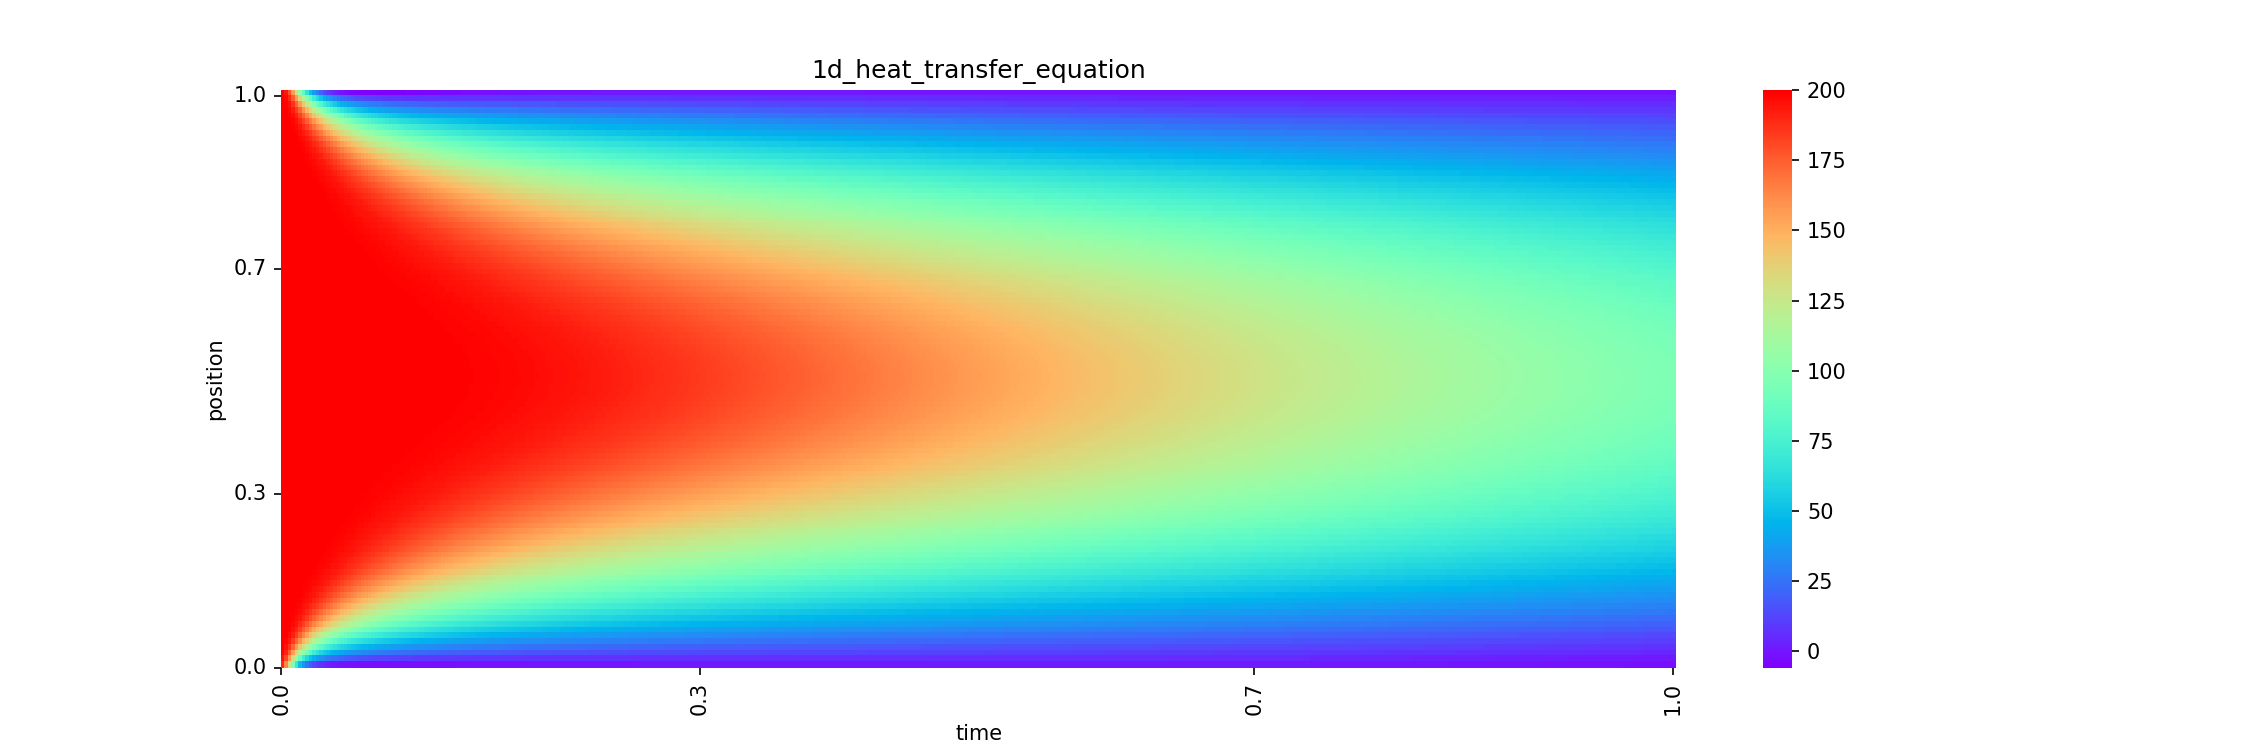
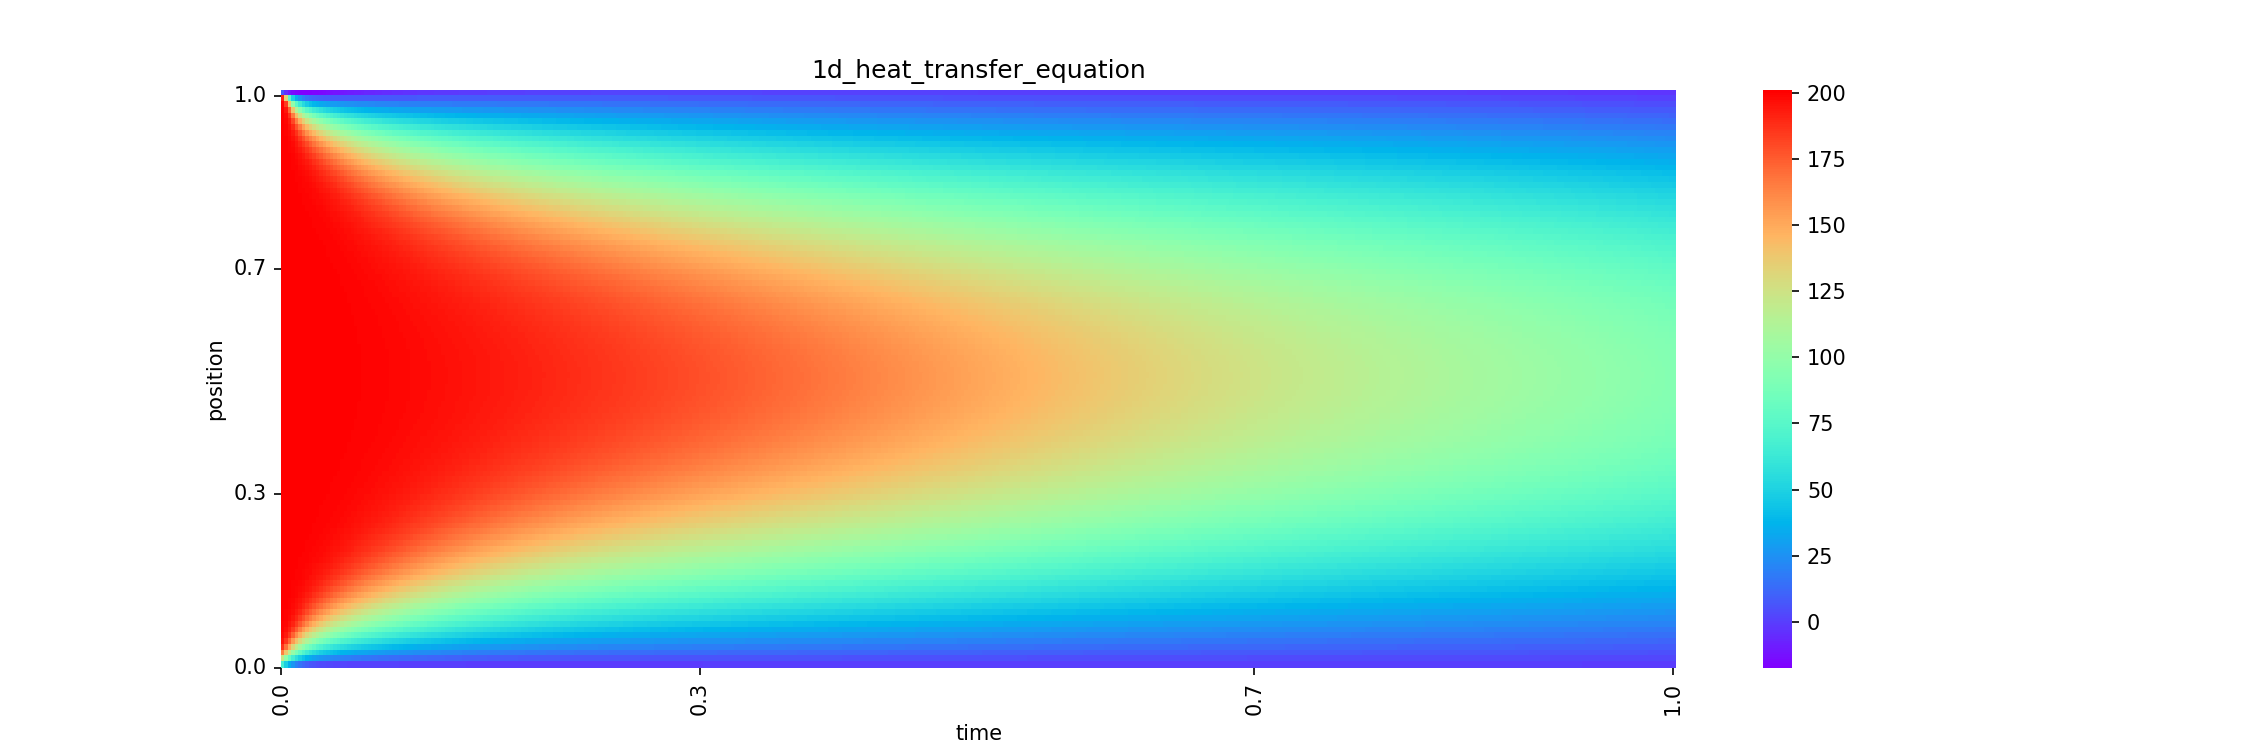
more experiments of PINN in solving 1d heat transfer equation

diff --git a/PINN/1d_heat_transfer_pinn.py b/PINN/1d_heat_transfer_pinn.py
@@ -5,6 +5,9 @@
 # @Time       : 2021/12/6 21:48
 import os
 import sys
+
+import matplotlib.pyplot as plt
+
 sys.path.append(os.curdir)
 
 import time
@@ -142,12 +145,13 @@ class OneDHeatTransferPINN(object):
         self.pinn_model.train()
 
         for i in range(4):
+
             logger.info("train with L-BFGS")
             self.adam_ = False
             self.optimizer.step(self.loss_func)
             logger.info("L-BFGS optimize done ...")
 
-            adam_optimier = optim.Adam(self.pinn_model.parameters(), lr=2e-4/np.power(5, i))
+            adam_optimier = optim.Adam(self.pinn_model.parameters(), lr=2e-3/np.power(5, i))
             logger.info("train with Adam optimizer")
             self.adam_ = True
             for epoch in range(1, self.max_adam_epochs + 1):
@@ -155,6 +159,11 @@ class OneDHeatTransferPINN(object):
                 self.loss_func()
                 adam_optimier.step()
             logger.info("Adam optimize done ...")
+
+            logger.info("train with L-BFGS")
+            self.adam_ = False
+            self.optimizer.step(self.loss_func)
+            logger.info("L-BFGS optimize done ...")
 
         over_train_time = time.time()
         logger.info("train over ...")
@@ -189,7 +198,7 @@ class OneDHeatTransferPINN(object):
         loss_u = torch.mean((u_pred - self.u_exact) ** 2)
         loss_f = torch.mean(pde_output ** 2)
 
-        total_loss = loss_f + loss_u
+        total_loss = loss_f + loss_u * 100
 
         total_loss.backward()
 
@@ -204,7 +213,7 @@ class OneDHeatTransferPINN(object):
                         "pde function loss:{:.5e}".format(loss_u.item(), loss_f.item()))
         return total_loss
 
-    def pred_and_valuation(self):
+    def pred(self):
         logger.info("begin pred ...")
         with torch.no_grad():
             self.pinn_model.eval()
@@ -237,13 +246,58 @@ class OneDHeatTransferPINN(object):
             logger.info("pred done ...")
             logger.info("using {:.5f}s ...".format(over_pred_time - begin_pred_time))
 
-        # valuation
-        l1_norm = np.linalg.norm(pred_output_matrix.reshape(-1) - true_output_matrix.reshape(-1), 1)
-        l2_norm = np.linalg.norm(pred_output_matrix.reshape(-1) - true_output_matrix.reshape(-1))
+        # self.data_creator.figure_output_path = os.path.join(self.conf["figure_output_root"],
+        #                                                     self.conf["pinn_figure_output_name"])
+        # self.data_creator.gif_output_path = os.path.join(self.conf["figure_output_root"],
+        #                                                  self.conf["pinn_gif_output_name"])
+        # self.data_creator.result_matrix = pred_output_matrix.copy()
+        # self.data_creator.plot_func(save_figure=True)
+        #
+        # # different figure
+        # different_figure = np.abs(pred_output_matrix - true_output_matrix)
+        #
+        # self.data_creator.figure_output_path = os.path.join(self.conf["figure_output_root"],
+        #                                                     self.conf["different_figure_output_name"])
+        # self.data_creator.gif_output_path = os.path.join(self.conf["figure_output_root"],
+        #                                                  self.conf["different_gif_output_name"])
+        # self.data_creator.result_matrix = different_figure.copy()
+        # self.data_creator.plot_func(save_figure=True)
 
-        max_error = np.max(np.abs(pred_output_matrix - true_output_matrix))
-        min_error = np.min(np.abs(pred_output_matrix - true_output_matrix))
-        average_error = np.average(np.abs(pred_output_matrix - true_output_matrix))
+        # 直接对比
+        # 取时间为 0， 0.25, 0.5, 0.75四个时间点
+        # time_points = [0, int(0.25/self.conf["delta_time"]),
+        #                int(0.5/self.conf["delta_time"]),
+        #                int(0.75/self.conf["delta_time"])]
+        # plt.rcParams["font.sans-serif"] = ["SimHei"]
+        # plt.figure(figsize=(10, 10))
+        # x_value_list = np.linspace(self.conf["cal_x_range"][0],
+        #                            self.conf["cal_x_range"][1], true_output_matrix.shape[0])
+        # for _time in time_points:
+        #     true_vector = true_output_matrix[:, _time]
+        #     pred_vector = pred_output_matrix[:, _time]
+        #     plt.clf()
+        #     plt.cla()
+        #     plt.title("t={}".format(np.round(_time * self.conf["delta_time"], 2)))
+        #     plt.xlabel("x")
+        #     plt.ylabel("u(t, x)")
+        #     plt.ylim(-1, 200)
+        #     plt.plot(x_value_list, pred_vector, label="数值计算结果", linewidth=2)
+        #     plt.plot(x_value_list, true_vector, label="PINN预测结果", linewidth=2)
+        #     plt.legend()
+        #     plt.savefig("./output/plots/1d_heat_transfer_pinn_time_{}.png".format(np.round(_time *
+        #                                                                                    self.conf["delta_time"], 2)))
+        return pred_output_matrix
+
+    def valuation_(self, pred_matrix):
+
+        true_output_matrix = self.data_creator.result_matrix
+        # valuation
+        l1_norm = np.linalg.norm(pred_matrix.reshape(-1) - true_output_matrix.reshape(-1), 1)
+        l2_norm = np.linalg.norm(pred_matrix.reshape(-1) - true_output_matrix.reshape(-1))
+
+        max_error = np.max(np.abs(pred_matrix - true_output_matrix))
+        min_error = np.min(np.abs(pred_matrix - true_output_matrix))
+        average_error = np.average(np.abs(pred_matrix - true_output_matrix))
 
         logger.info("l1 norm {:.7f}".format(l1_norm))
         logger.info("l2 norm {:.7f}".format(l2_norm))
@@ -251,21 +305,62 @@ class OneDHeatTransferPINN(object):
         logger.info("min error {:.7f}".format(min_error))
         logger.info("average error {:.7f}".format(average_error))
 
-        self.data_creator.figure_output_path = os.path.join(self.conf["figure_output_root"],
-                                                            self.conf["pinn_figure_output_name"])
-        self.data_creator.gif_output_path = os.path.join(self.conf["figure_output_root"],
-                                                         self.conf["pinn_gif_output_name"])
-        self.data_creator.result_matrix = pred_output_matrix.copy()
-        self.data_creator.plot_func(save_figure=True)
+        return average_error
 
 
 if __name__ == "__main__":
     _conf = yaml.load(open("./conf/pinn_1d_heat_transfer_equation.yaml"), Loader=yaml.FullLoader)
     weight_path = r"./output/weights/1d_heat_transfer_equation_pinn.pth"
-    main_ = OneDHeatTransferPINN(_conf, weight_path)
-    main_.train()
-    if _conf["PINN_plot"] == "True":
-        main_.pred_and_valuation()
+
+    layer_num_list = [2, 4, 6, 8]
+    neural_num_list = [10, 20, 40]
+
+    boundary_initial_num = 200
+    common_num = 16000
+    boundary_num = int(boundary_initial_num * 0.7)
+    initial_num = int(boundary_initial_num * 0.3)
+
+    for layer_conf in layer_num_list:
+        for neural_num_conf in neural_num_list:
+            logger.info("\n \n \n")
+            logger.info("layer_conf {}".format(layer_conf))
+            logger.info("neural_num_conf {}".format(neural_num_conf))
+
+            _conf["model_layers"] = np.repeat(neural_num_conf, layer_conf)
+            logger.info("model_layers {}".format(_conf["model_layers"]))
+
+            main_ = OneDHeatTransferPINN(_conf, weight_path)
+            main_.train()
+            pred_matrix_ = main_.pred()
 
 
-
+    # common_num_list = [4000, 8000, 12000, 16000, 20000]
+    # boundary_initial_num_list = [100, 140, 180, 220]
+    #
+    # error_matrix = np.zeros((len(common_num_list), len(boundary_initial_num_list)))
+    # for i, boundary_initial_num in enumerate(boundary_initial_num_list):
+    #     for j, common_num in enumerate(common_num_list):
+    #
+    #         train_ = False
+    #         if (boundary_initial_num == 180 and common_num == 20000) or (boundary_initial_num == 140 and common_num == 12000):
+    #             train_ = True
+    #         if train_:
+    #             boundary_num = int(boundary_initial_num * 0.7)
+    #             initial_num = int(boundary_initial_num * 0.3)
+    #
+    #             logger.info("\n \n \n")
+    #             logger.info("common_num {}".format(common_num))
+    #             logger.info("initial_num {}".format(initial_num))
+    #             logger.info("boundary_num {}".format(boundary_num))
+    #
+    #             _conf["boundary_num"] = boundary_num
+    #             _conf["initial_num"] = initial_num
+    #             _conf["common_num"] = common_num
+    #
+    #             main_ = OneDHeatTransferPINN(_conf, weight_path)
+    #             main_.train()
+    #             # if _conf["PINN_plot"] == "True":
+    #             pred_matrix_ = main_.pred()
+    #             error_matrix[j][i] = main_.valuation_(pred_matrix_)
+    #
+    # logger.info("error matrix".format(error_matrix))

diff --git a/data/DataCreator.py b/data/DataCreator.py
@@ -132,6 +132,10 @@ class OneDHeatTransferEquationDataCreator(BasicDataCreator):
 
         # result matrix
         self.result_matrix = None
+        # param matrix
+        self.parm_matrix = None
+        # k matrix
+        self.k_vector_matrix = None
 
         # data init
         self._data_init()
@@ -147,9 +151,45 @@ class OneDHeatTransferEquationDataCreator(BasicDataCreator):
 
         # init
         self.result_matrix[:, 0] = 200
+        self.result_matrix[-1, 0] = 0
+        self.result_matrix[0, 0] = 0
+
+        # def A matrix
+        self.parm_matrix = -2 * np.eye(int(self.space_n)) + \
+                           np.eye(int(self.space_n), k=1) + \
+                           np.eye(int(self.space_n), k=-1)
+        self.parm_matrix[0, :] = 0
+        self.parm_matrix[-1, :] = 0
+
+        # def k1, k2, k3, k4
+        # k1 = k_vector_matrix[:, 0]
+        # k2 = k_vector_matrix[:, 1]
+        # k3 = k_vector_matrix[:, 2]
+        # k4 = k_vector_matrix[:, 3]
+        self.k_vector_matrix = np.zeros((int(self.space_n), 4))
 
     def iter_func(self):
-        pass
+        constant_ = 0.1 / np.power(self.delta_x, 2)
+        for i in range(self.time_n - 1):
+            # k1
+            self.k_vector_matrix[:, 0] = constant_ * np.matmul(self.parm_matrix, self.result_matrix[:, i])
+            # k2
+            self.k_vector_matrix[:, 1] = constant_ * (
+                np.matmul(self.parm_matrix, self.result_matrix[:, i] +
+                          (self.delta_time / 2) * self.k_vector_matrix[:, 0]))
+            # k3
+            self.k_vector_matrix[:, 2] = constant_ * (
+                np.matmul(self.parm_matrix, self.result_matrix[:, i] +
+                          (self.delta_time / 2) * self.k_vector_matrix[:, 1]))
+            # k4
+            self.k_vector_matrix[:, 3] = constant_ * (
+                np.matmul(self.parm_matrix, self.result_matrix[:, i] +
+                          self.delta_time * self.k_vector_matrix[:, 2]))
+            # if i % 1000 == 0:
+            #     print(np.max(k_vector_matrix))
+            self.result_matrix[:, i + 1] = self.result_matrix[:, i] + (self.delta_time / 6) * (
+                    self.k_vector_matrix[:, 0] + 2 * self.k_vector_matrix[:, 1] +
+                    2 * self.k_vector_matrix[:, 2] + self.k_vector_matrix[:, 3])
 
     def plot_func(self, plot_figure=False, save_figure=False):
         x_value_list = np.linspace(0, self.time_total, self.time_n)
